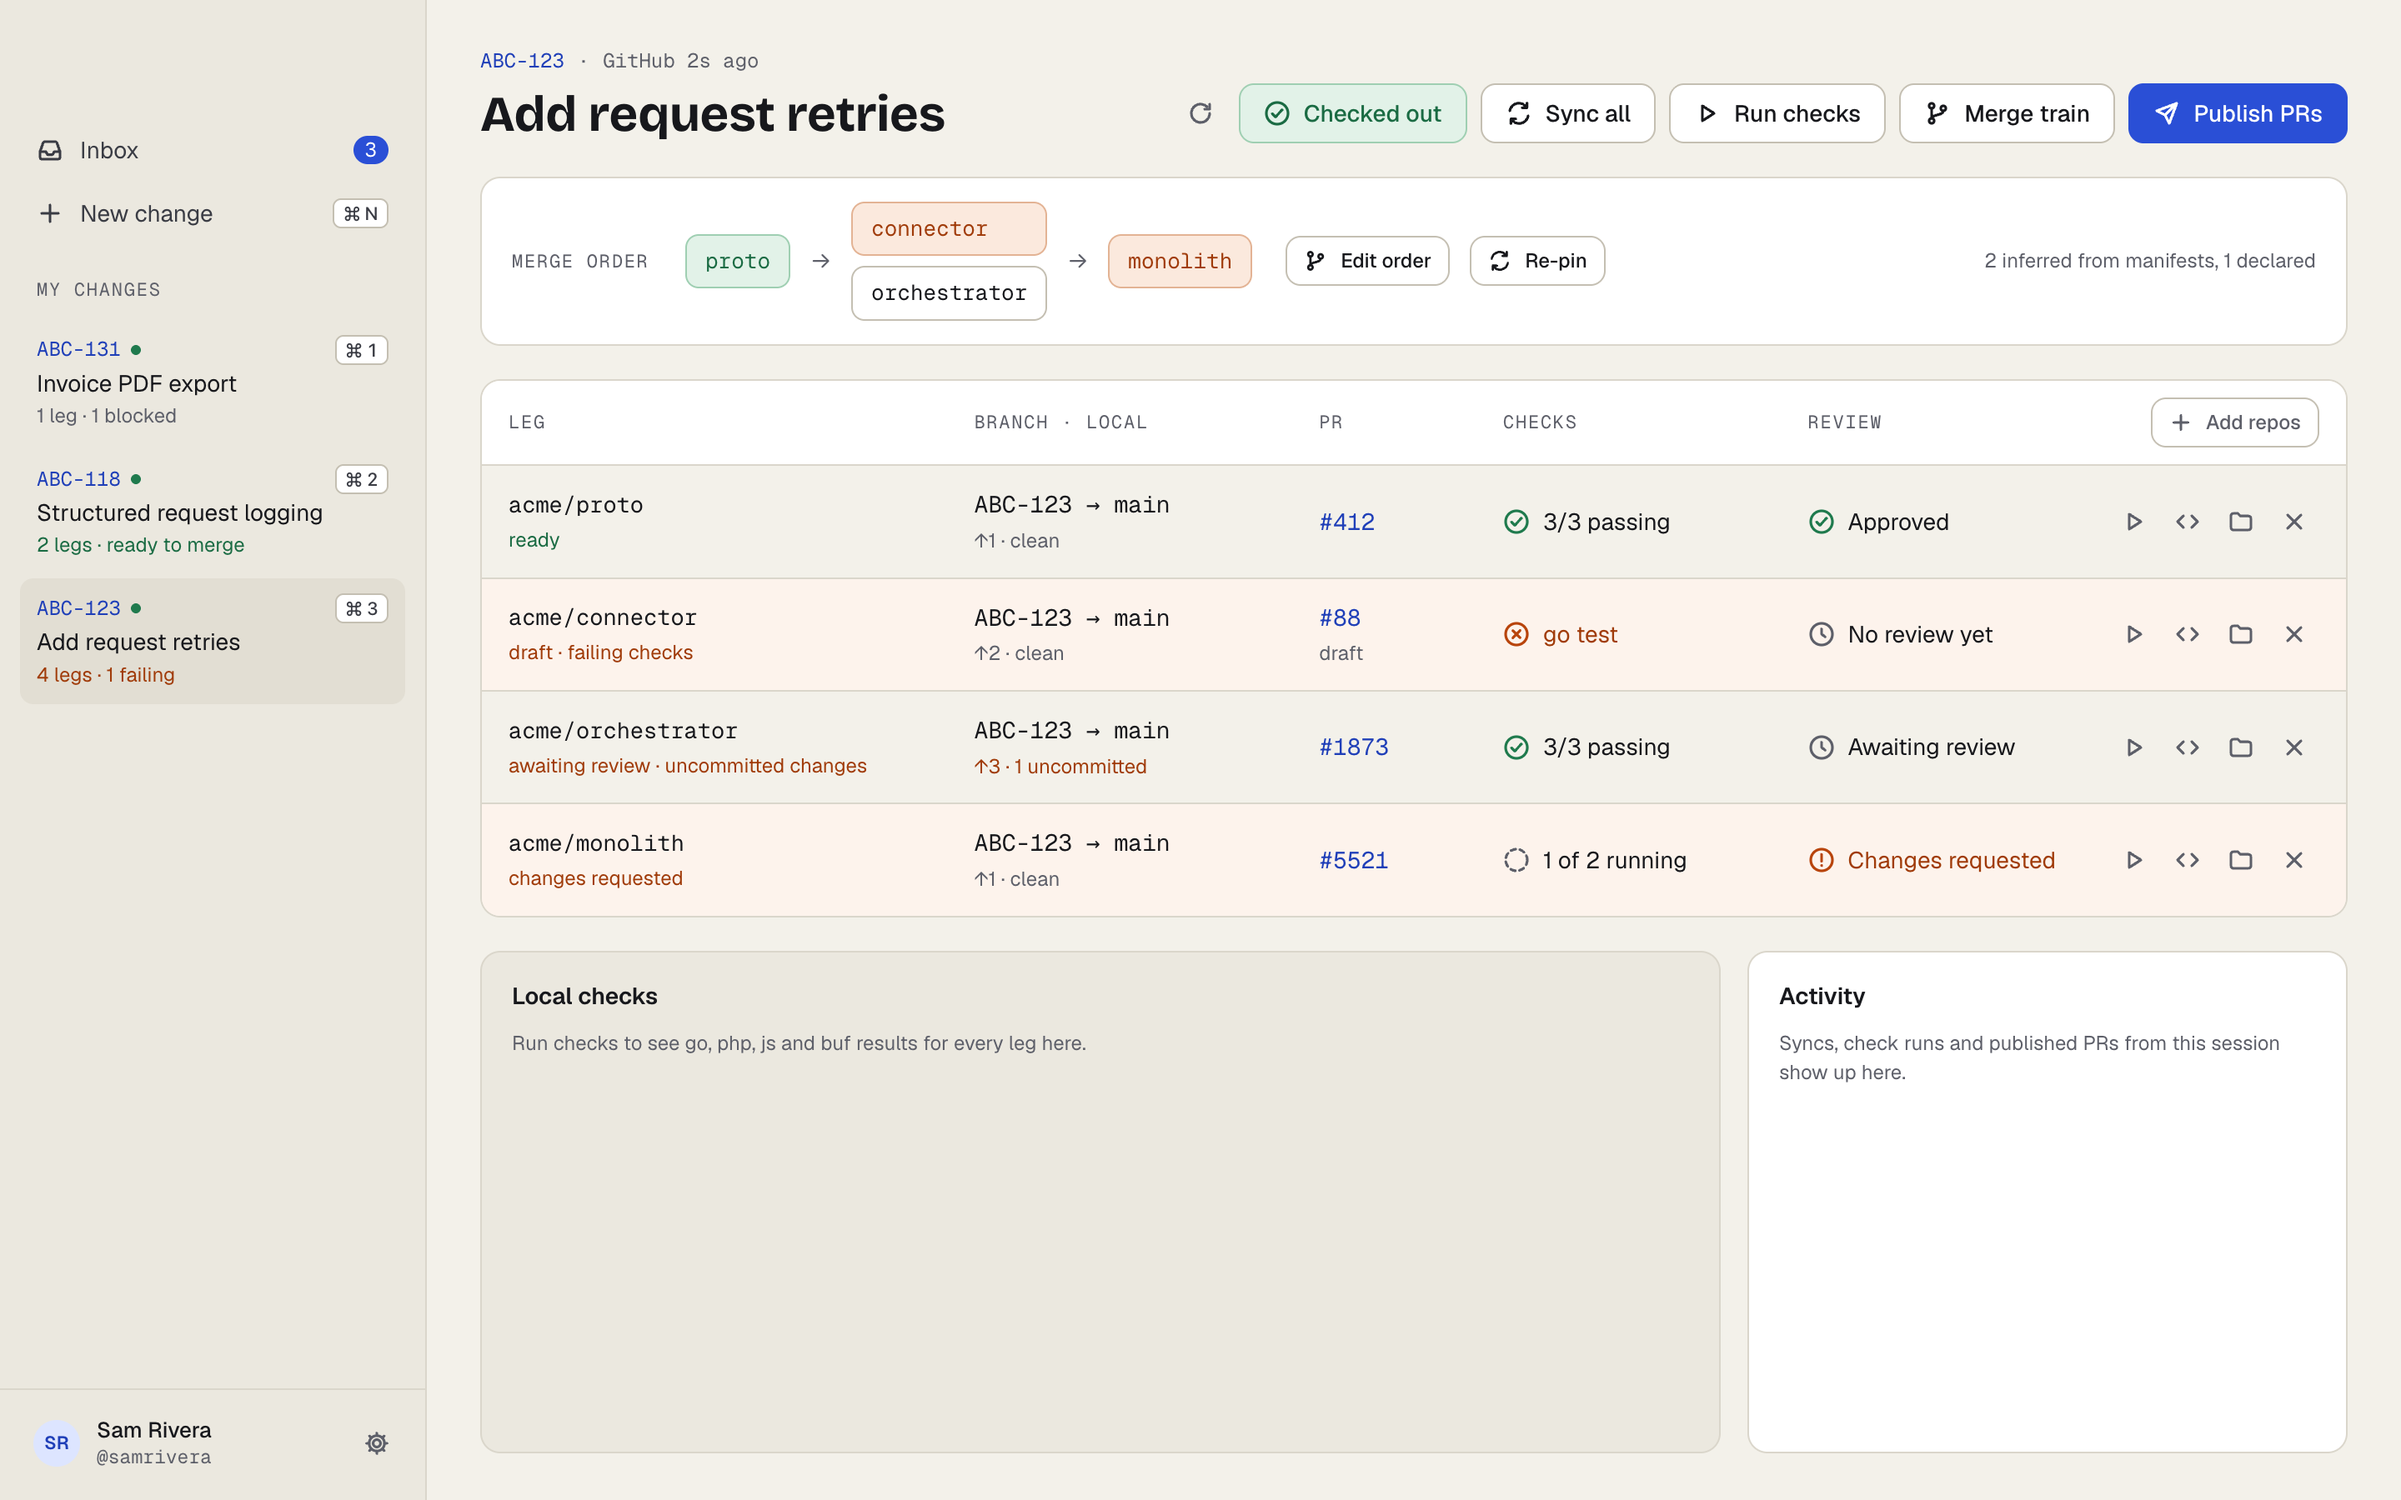
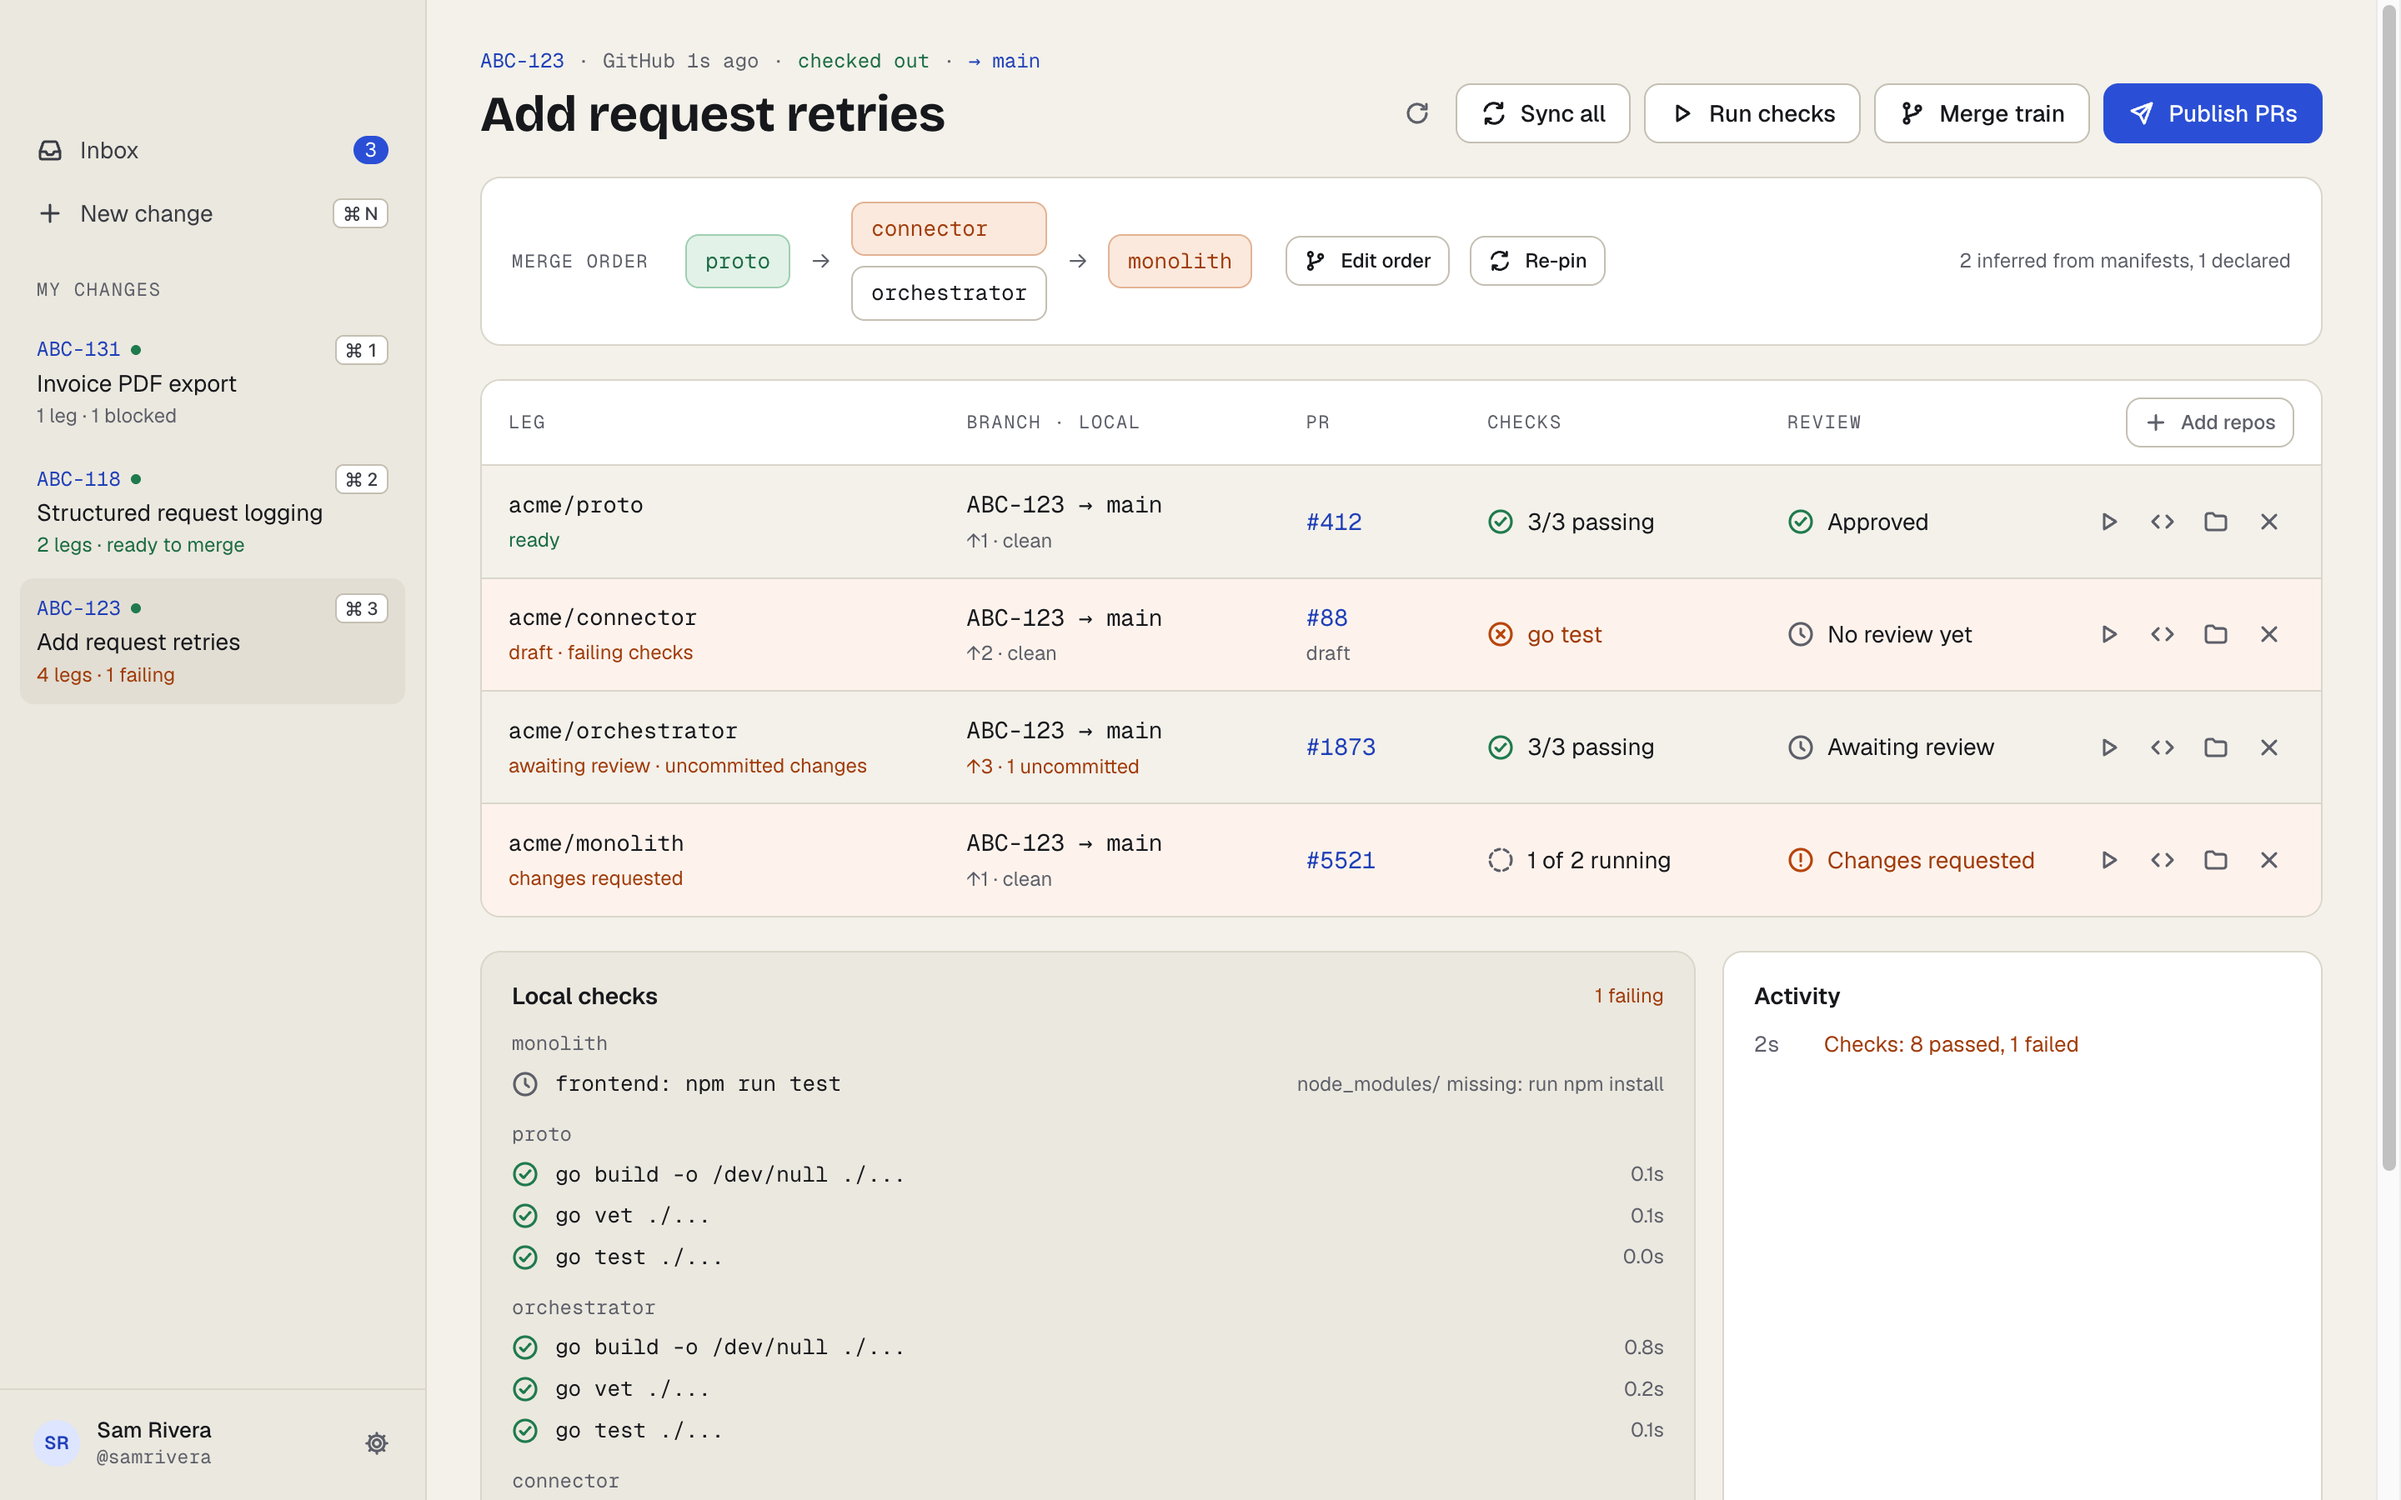
Header: checked-out state as text again, no hover shift (#15)
The Check out button swapped its label on hover and changed width, shifting
the header. The branch state goes back to the line above the title as text
and links: "checked out · → main", or "not checked out · check out". The
banner, sidebar switch button and ⌘⇧O stay. README screenshots and wording
match.

diff --git a/desktop/frontend/src/components/ChangeView.svelte b/desktop/frontend/src/components/ChangeView.svelte
@@ -171,6 +171,19 @@
           {#if view.worktrees}
             <span>·</span>
             <span title="Each repo has its own worktree under the change, so the clones stay on their branches">worktrees</span>
+          {:else if view.legs.length}
+            <span>·</span>
+            {#if offBranch.length === 0}
+              <span class="ok">checked out</span>
+              <span>·</span>
+              <button class="link" disabled={switching} onclick={() => switchTo(true)} style="--wails-draggable: no-drag"
+                title="Switch every repo to {view.legs[0].base}">{switching ? 'switching…' : `→ ${view.legs[0].base}`}</button>
+            {:else}
+              <span class="warn">not checked out</span>
+              <span>·</span>
+              <button class="link" disabled={switching} onclick={() => switchTo(false)} style="--wails-draggable: no-drag"
+                title="Check out {view.branch} in every repo (⌘⇧O)">{switching ? 'switching…' : 'check out'}</button>
+            {/if}
           {/if}
         </div>
         <h1 title={view.title}>{view.title || 'Untitled change'}</h1>
@@ -179,19 +192,6 @@
         <button class="icon-btn" aria-label="Refresh from GitHub" title="Refresh (⌘R)" onclick={() => api.refresh(id)}>
           <Icon name="refresh" />
         </button>
-        {#if !view.worktrees && view.legs.length}
-          {#if offBranch.length === 0}
-            <button class="btn checkout on-branch" onclick={() => switchTo(true)} disabled={switching}
-              aria-label="Checked out: switch every repo back to {view.legs[0].base}" title="Switch every repo back to {view.legs[0].base}">
-              <Icon name={switching ? 'branch' : 'check'} spin={switching} />
-              <span class="idle">Checked out</span><span class="hover">→ {view.legs[0].base}</span>
-            </button>
-          {:else}
-            <button class="btn checkout" onclick={() => switchTo(false)} disabled={switching} title="Check out {view.branch} in every repo">
-              <Icon name="branch" spin={switching} />Check out
-            </button>
-          {/if}
-        {/if}
         <button class="btn" onclick={sync} disabled={syncing}>
           <Icon name="sync" spin={syncing} />Sync all
         </button>
@@ -394,13 +394,9 @@
   .order-note { margin-left: auto; font-size: 12px; text-align: right; }
   .repin { margin-left: 8px; }
   .head-tools { display: flex; justify-content: flex-end; }
-  .btn.on-branch { color: var(--ok-text); border-color: var(--ok-border); background: var(--ok-bg); }
-  /* Fixed width so the label swap on hover doesn't shift the other buttons. */
-  .btn.checkout { min-width: 132px; justify-content: center; }
-  .btn.on-branch .hover { display: none; }
-  .btn.on-branch:hover:not(:disabled) .idle, .btn.on-branch:focus-visible .idle { display: none; }
-  .btn.on-branch:hover:not(:disabled) .hover, .btn.on-branch:focus-visible .hover { display: inline; }
-  .btn.on-branch:hover:not(:disabled) { color: var(--text); border-color: var(--line-2); background: var(--hover); }
+  .link { border: 0; background: none; padding: 0; color: var(--accent-text); font: inherit; cursor: pointer; }
+  .link:hover:not(:disabled) { color: var(--link-hover); text-decoration: underline; }
+  .link:disabled { color: var(--muted); cursor: default; }
   .head-tools .add { text-transform: none; letter-spacing: normal; font-family: var(--sans); }
   .danger-text { color: var(--warn-text); border-color: var(--warn-border); }
 

diff --git a/README.md b/README.md
@@ -129,8 +129,9 @@ and a title, pick the repos, and create it. Commit in your repos as usual. Then:
 - **Publish PRs** opens every PR, cross-linked.
 - **Run checks** runs local checks everywhere.
 - **Merge train** merges in dependency order when they're approved.
-- **Check out** puts every repo back on this change's branch after you've been
-  elsewhere.
+- **check out**, next to the change's ID above its title, puts every repo back on
+  its branch after you've been elsewhere. It reads **checked out · → main** once
+  they're all there.
 
 **From the terminal:**
 
@@ -167,7 +168,7 @@ changes picks the one it has checked out.
 - **Branches or worktrees:**
   - **Branches (the default):** the branch is checked out in the repo's own clone,
     so services running from it pick the change up. A repo with uncommitted work
-    gets the branch but stays where it is. `td switch` (or **Check out**) moves
+    gets the branch but stays where it is. `td switch` (or **check out** in the app) moves
     every repo onto the change, and `td switch --base` moves them back to `main`.
   - **Worktrees (`td start --worktree`, or the toggle on New change):** each repo
     gets a worktree under the change's folder instead, and your clones don't move.
